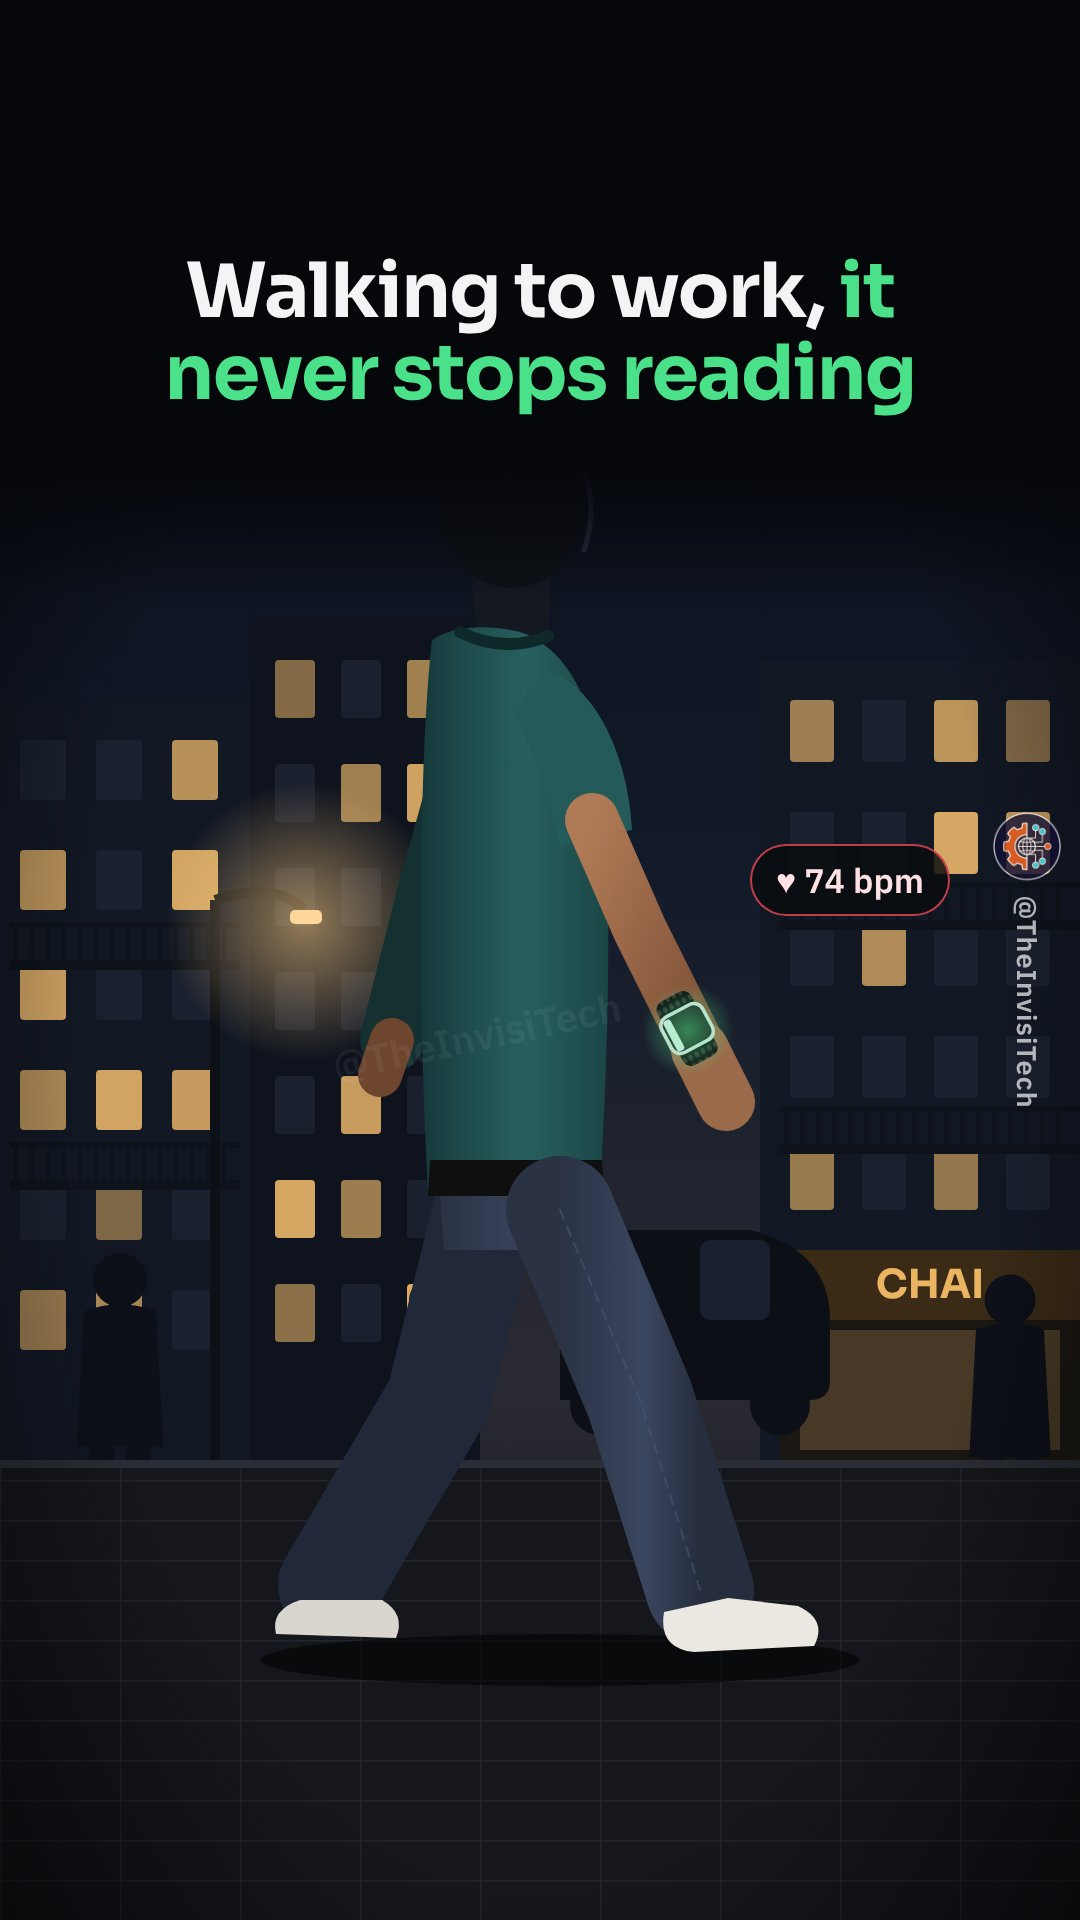
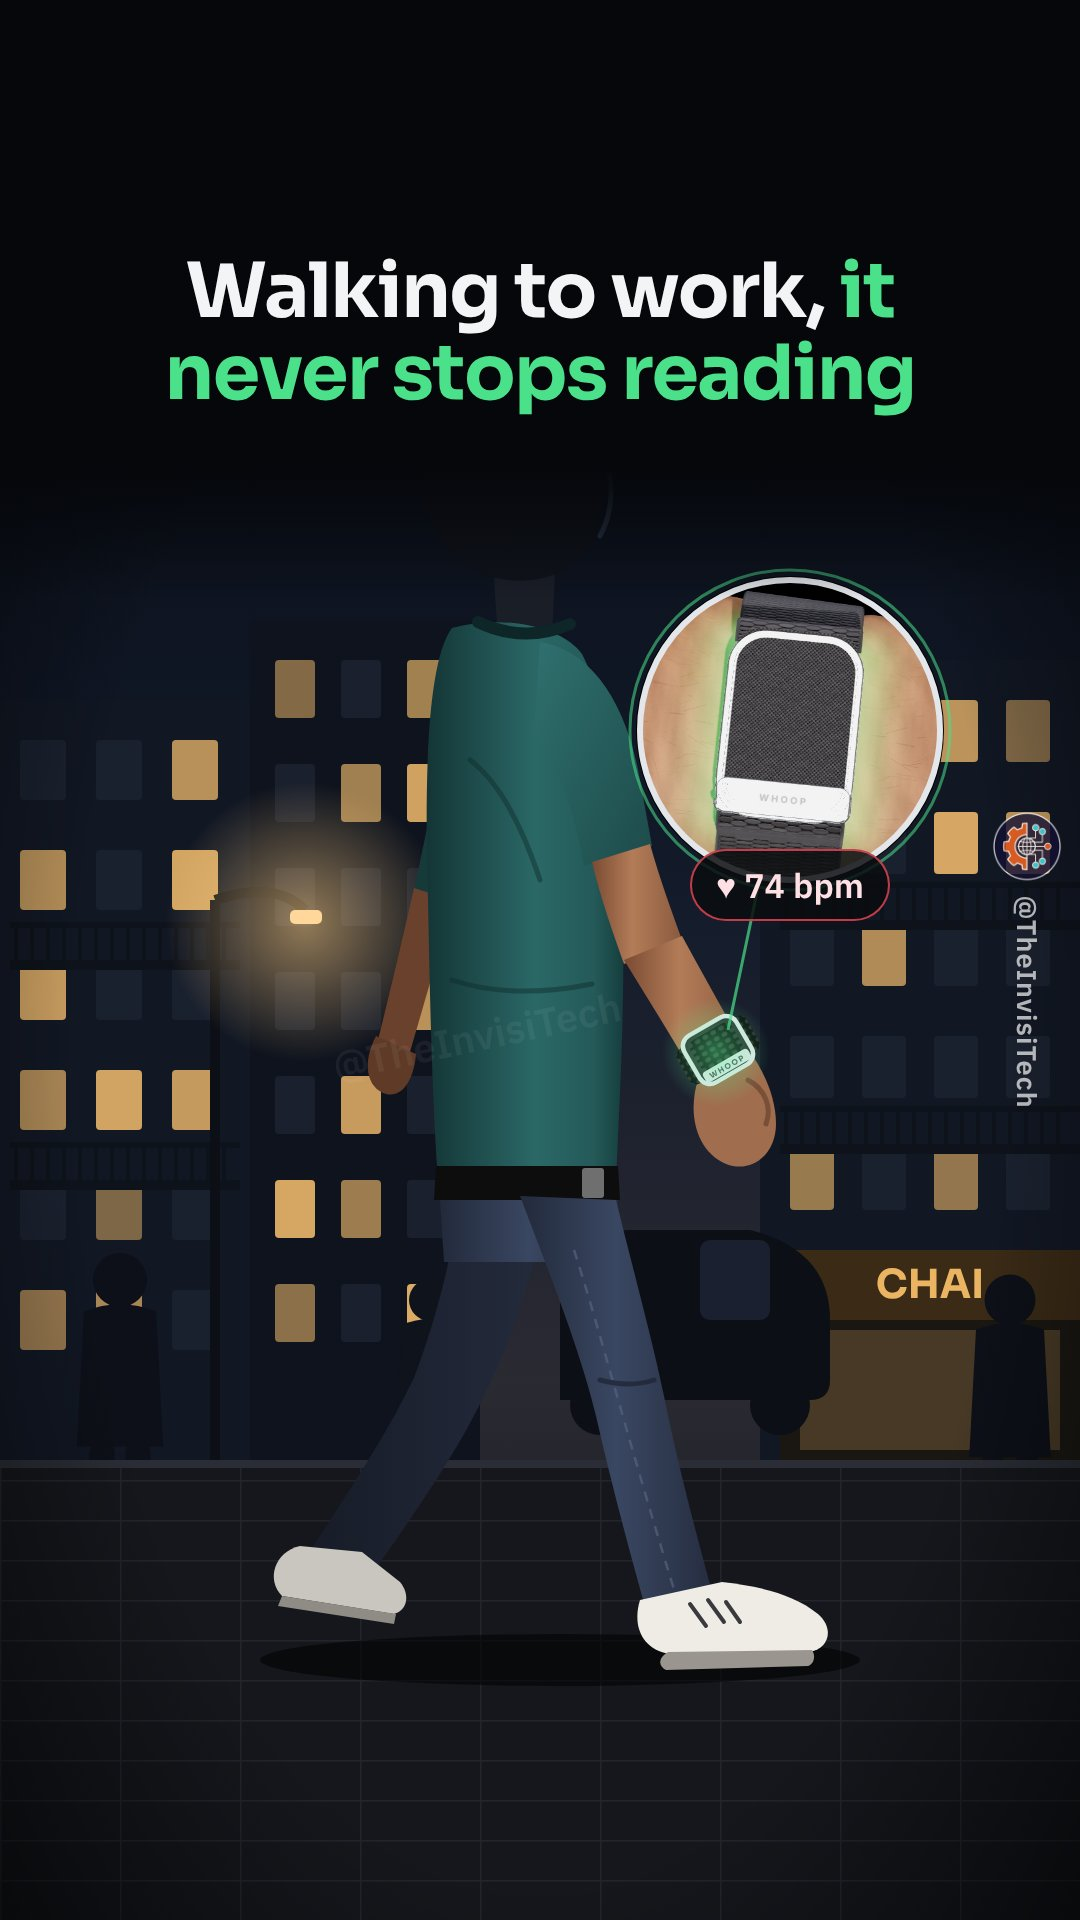
WHOOP Short: redrawn walking man with a WHOOP band on his wrist + 3D zoom bubble
Claude-Session: https://claude.ai/code/session_01GXcKc5WnFrVWBsHLe8YpAy

diff --git a/whoop-teardown/shots.html b/whoop-teardown/shots.html
@@ -1073,7 +1073,7 @@ const macroCam = new THREE.PerspectiveCamera(30, W / H, 1, 2000);
 }
 
 /* ---------- 2D illustration: walking to work (our own character, faceless) ---------- */
-function walkSVG() {
+function walkSVG(zoom) {
   const r = rng(5);
   const windows = (x0, y0, cols, rows, dx, dy, w, h) => { let o = ''; for (let jj = 0; jj < rows; jj++) for (let ii = 0; ii < cols; ii++) { const lit = r() < .5; o += `<rect x="${x0 + ii * dx}" y="${y0 + jj * dy}" width="${w}" height="${h}" rx="4" fill="${lit ? '#e8b46a' : '#1c2230'}" opacity="${lit ? .5 + r() * .45 : .9}"/>`; } return o; };
   const balcony = (x, y, w) => `<rect x="${x}" y="${y}" width="${w}" height="10" fill="#0e121a"/>` + [...Array(Math.floor(w / 16))].map((_, k) => `<rect x="${x + 4 + k * 16}" y="${y - 34}" width="4" height="34" fill="#0e121a"/>`).join('') + `<rect x="${x}" y="${y - 38}" width="${w}" height="6" fill="#0e121a"/>`;
@@ -1109,27 +1109,63 @@ function walkSVG() {
   <!-- footpath -->
   <rect x="0" y="1460" width="${W}" height="460" fill="url(#tiles)"/><rect x="0" y="1460" width="${W}" height="8" fill="#2a2d35"/>
   <ellipse cx="560" cy="1660" rx="300" ry="26" fill="#000" opacity=".55"/>
-  <!-- character walking right (faceless: head stays out of frame) -->
-  <g stroke-linecap="round" stroke-linejoin="round">
-    <path d="M478 720 L430 890 L392 1040" stroke="#143031" stroke-width="64" fill="none"/>
-    <path d="M392 1040 L380 1075" stroke="#6e452f" stroke-width="44" fill="none"/>
-    <path d="M490 1190 L438 1400 L330 1585" stroke="#20283a" stroke-width="104" fill="none"/>
-    <path d="M300 1600 q-30 10 -24 34 l120 4 q10 -24 -14 -38 z" fill="#d9d6cf"/>
-    <path d="M470 560 L478 650 L548 650 L552 560 Z" fill="#141820"/>
-    <ellipse cx="512" cy="500" rx="74" ry="88" fill="#0f1218"/><path d="M584 470 q14 40 0 80" stroke="#3a4558" stroke-width="5" fill="none" opacity=".6"/>
-    <path d="M432 640 C 418 760 418 1020 428 1190 L 600 1190 C 610 1020 612 860 600 760 C 590 690 560 645 520 632 C 488 624 452 626 432 640 Z" fill="url(#teeG)"/>
-    <path d="M460 632 q44 22 88 4" stroke="#0f2829" stroke-width="12" fill="none"/>
-    <path d="M430 1160 L 602 1160 L 604 1196 L 428 1196 Z" fill="#0f0f10"/><rect x="560" y="1162" width="22" height="30" rx="3" fill="#5e5e5e"/>
-    <path d="M440 1196 L 600 1196 L 596 1250 L 444 1250 Z" fill="url(#denimG)"/>
-    <path d="M560 1210 L640 1400 L700 1590" stroke="url(#denimG)" stroke-width="108" fill="none"/>
-    <path d="M560 1210 L640 1400 L700 1590" stroke="#4a5674" stroke-width="2" stroke-dasharray="10 8" fill="none" opacity=".6"/>
-    <path d="M664 1612 q-6 36 30 40 l120 -6 q14 -26 -16 -40 l-70 -8 z" fill="#ebe8e1"/>
-    <path d="M548 670 C 600 690 628 760 632 830 L 560 846 C 548 790 530 740 512 710 Z" fill="#245a59"/>
-    <path d="M592 820 L640 930 L700 1050" stroke="url(#skinG)" stroke-width="54" fill="none"/>
-    <path d="M700 1050 L726 1102" stroke="#9a6a4b" stroke-width="58" fill="none"/>
-    <g transform="rotate(62 688 1028)"><rect x="652" y="1010" width="72" height="38" rx="9" fill="url(#knit)"/><rect x="668" y="1006" width="40" height="46" rx="10" fill="#18191c" stroke="#d6dade" stroke-width="3.5"/><rect x="671" y="1040" width="34" height="8" rx="3" fill="#dfe3e8"/></g>
-    <circle cx="688" cy="1030" r="46" fill="url(#ledg)" opacity=".5"/>
+  <!-- character walking right: faceless (head in shadow), Indian skin tone, WHOOP band on the near wrist -->
+  <defs>
+    <linearGradient id="tee2" x1="0" y1="0" x2="1" y2="0"><stop offset="0" stop-color="#143536"/><stop offset=".55" stop-color="#2a6866"/><stop offset=".85" stop-color="#245a59"/><stop offset="1" stop-color="#163e3e"/></linearGradient>
+    <linearGradient id="sleeve2" x1="0" y1="0" x2="1" y2="1"><stop offset="0" stop-color="#2f706e"/><stop offset="1" stop-color="#1d4b4a"/></linearGradient>
+    <linearGradient id="arm2" x1="0" y1="0" x2="1" y2="0"><stop offset="0" stop-color="#7a4b33"/><stop offset=".45" stop-color="#b37c58"/><stop offset="1" stop-color="#8a5a3e"/></linearGradient>
+    <linearGradient id="jean2" x1="0" y1="0" x2="1" y2="0"><stop offset="0" stop-color="#222a3b"/><stop offset=".5" stop-color="#3a4762"/><stop offset="1" stop-color="#252d40"/></linearGradient>
+    <linearGradient id="jeanFar" x1="0" y1="0" x2="1" y2="0"><stop offset="0" stop-color="#171c28"/><stop offset="1" stop-color="#242b3c"/></linearGradient>
+  </defs>
+  <g stroke-linejoin="round">
+    <!-- far arm (behind the body, swinging back) -->
+    <path d="M470 662 C 446 740 428 820 414 892 L 452 904 C 466 836 486 760 504 690 Z" fill="#163a3a"/>
+    <path d="M414 888 C 400 950 388 1000 378 1040 L 410 1052 C 422 1010 438 958 452 900 Z" fill="#6a412c"/>
+    <path d="M376 1036 c -14 26 -10 52 10 58 c 16 4 28 -14 30 -40 z" fill="#5e3a27"/>
+    <!-- far leg (back) -->
+    <path d="M462 1186 L 548 1190 C 536 1270 512 1340 480 1404 C 452 1460 410 1520 372 1574 L 312 1548 C 350 1490 388 1432 414 1378 C 436 1320 452 1258 462 1186 Z" fill="url(#jeanFar)"/>
+    <path d="M300 1546 c -26 6 -34 34 -18 50 l 112 18 c 14 -4 16 -20 6 -32 l -38 -30 z" fill="#c9c6bf"/><path d="M282 1596 l 114 18 l -2 10 l -116 -18 z" fill="#8f8c86"/>
+    <!-- head in shadow (no face) and neck -->
+    <path d="M492 548 L 498 640 L 552 640 L 556 548 Z" fill="#1a1e27"/>
+    <path d="M520 382 c -58 0 -96 40 -98 96 c -2 50 28 90 74 100 c 36 8 72 -2 92 -30 c 14 -20 18 -48 14 -74 c -8 -58 -38 -92 -82 -92 z" fill="#10131a"/>
+    <path d="M436 452 c 8 -52 46 -80 90 -80 c 48 0 80 30 88 72 c -30 -24 -60 -32 -96 -30 c -34 2 -60 14 -82 38 z" fill="#07080b"/>
+    <path d="M604 452 c 10 28 10 58 -4 84" stroke="#3a4a5e" stroke-width="5" fill="none" opacity=".7" stroke-linecap="round"/>
+    <!-- torso: t-shirt -->
+    <path d="M452 628 C 428 660 424 770 428 900 C 430 1000 432 1100 438 1180 L 616 1180 C 620 1090 626 990 622 890 C 618 790 606 700 582 654 C 562 626 500 614 452 628 Z" fill="url(#tee2)"/>
+    <path d="M478 622 q 46 22 92 2" stroke="#0e2627" stroke-width="12" fill="none" stroke-linecap="round"/>
+    <path d="M470 760 q 40 30 70 120 M 452 980 q 60 20 140 4 M 560 700 q 30 60 30 140" stroke="#0f2a2b" stroke-width="5" fill="none" opacity=".45" stroke-linecap="round"/>
+    <!-- belt + hips -->
+    <path d="M436 1166 L 618 1166 L 620 1200 L 434 1200 Z" fill="#0d0d0e"/><rect x="582" y="1168" width="22" height="30" rx="3" fill="#6f6f6f"/>
+    <path d="M440 1200 L 618 1200 L 614 1262 L 444 1262 Z" fill="url(#jean2)"/>
+    <!-- near leg (forward) -->
+    <path d="M520 1196 L 616 1200 C 632 1266 650 1330 664 1396 C 676 1456 694 1526 712 1592 L 646 1610 C 628 1546 610 1478 596 1416 C 580 1350 552 1280 520 1196 Z" fill="url(#jean2)"/>
+    <path d="M574 1250 C 600 1330 622 1420 676 1596" stroke="#55627f" stroke-width="2.5" stroke-dasharray="10 8" fill="none" opacity=".7"/>
+    <path d="M600 1380 q 30 8 54 0" stroke="#1c2232" stroke-width="5" fill="none" opacity=".7" stroke-linecap="round"/>
+    <path d="M640 1600 c -8 26 2 50 30 54 l 140 -2 c 20 -4 24 -24 8 -38 c -24 -20 -60 -28 -96 -32 z" fill="#efece6"/>
+    <path d="M668 1652 l 144 -2 c 4 6 2 14 -4 16 l -142 4 c -8 -4 -8 -12 2 -18 z" fill="#9a968f"/>
+    <path d="M690 1604 l 16 22 M 708 1600 l 16 22 M 726 1602 l 14 20" stroke="#3a3a3e" stroke-width="4" stroke-linecap="round"/>
+    <!-- near arm: sleeve, upper arm, forearm swinging forward -->
+    <path d="M540 642 C 590 650 626 700 640 780 L 652 846 L 584 866 C 576 820 562 770 534 734 Z" fill="url(#sleeve2)"/>
+    <path d="M592 862 L 650 844 C 660 880 672 912 682 940 L 624 964 C 612 930 600 896 592 862 Z" fill="url(#arm2)"/>
+    <path d="M624 960 L 682 936 C 704 976 726 1016 748 1054 L 698 1082 C 676 1044 650 1002 624 960 Z" fill="url(#arm2)"/>
+    <path d="M698 1080 C 688 1110 694 1150 726 1164 C 752 1174 776 1154 776 1124 C 776 1100 766 1074 750 1052 Z" fill="#a06e4e"/>
+    <path d="M748 1080 c 18 10 24 28 18 44" stroke="#7a4f37" stroke-width="5" fill="none" stroke-linecap="round"/>
+    <!-- WHOOP band on the wrist: knit strap, chrome frame, clasp plate (face toward the viewer) -->
+    <g transform="translate(718 1050) rotate(-30)">
+      <rect x="-40" y="-20" width="80" height="40" rx="8" fill="url(#knit)"/>
+      <rect x="-30" y="-27" width="60" height="54" rx="12" fill="#2b2c30" stroke="#e3e6ea" stroke-width="4.5"/>
+      <rect x="-24" y="-21" width="48" height="34" rx="8" fill="url(#knit)"/>
+      <rect x="-26" y="12" width="52" height="12" rx="4" fill="#dfe3e8"/>
+      <text x="0" y="21.5" text-anchor="middle" font-family="Sora" font-weight="700" font-size="7.5" letter-spacing="1.6" fill="#4a4f57">WHOOP</text>
+    </g>
+    <circle cx="716" cy="1052" r="54" fill="url(#ledg)" opacity=".45"/>
   </g>
+  <!-- zoom bubble: the real 3D band from our model -->
+  ${zoom ? `<defs><clipPath id="zc"><circle cx="790" cy="730" r="148"/></clipPath></defs>
+  <line x1="728" y1="1030" x2="760" y2="878" stroke="rgba(75,224,138,.7)" stroke-width="3"/>
+  <circle cx="790" cy="730" r="154" fill="#000"/>
+  <image href="${zoom}" x="${790 - 540 * 0.62}" y="${730 - 960 * 0.62}" width="${1080 * 0.62}" height="${1920 * 0.62}" clip-path="url(#zc)"/>
+  <circle cx="790" cy="730" r="150" fill="none" stroke="#e3e6ea" stroke-width="6"/><circle cx="790" cy="730" r="160" fill="none" stroke="rgba(75,224,138,.55)" stroke-width="3"/>` : ''}
   <rect width="${W}" height="${H}" fill="url(#vig)"/>
   <rect x="0" y="0" width="${W}" height="600" fill="url(#topfade)"/>
   </svg>`;
@@ -1165,9 +1201,10 @@ const SHOTS = [
     $('sTitle').innerHTML = 'Like a stethoscope, it listens <em class="r">to your heart</em>';
     pills([{ text: 'Listens with sound', cls: 'r', at: [270, 1250], to: V3(-32, -3, -4) }, { text: 'Listens with light', cls: 'g', at: [770, 1250], to: V3(24, -2, 0) }]); },
   // 3. walking to work (2D illustration)
-  () => { T.renderer.domElement.style.opacity = 0; $('sArt').innerHTML = walkSVG(); $('sIllus').style.display = 'none';
+  () => { pod(0, 0); cam(V3(8, 430, 80), V3(0, 3, 0), null, 0); draw3D(); const zoom = T.renderer.domElement.toDataURL('image/jpeg', 0.92);
+    T.renderer.domElement.style.opacity = 0; $('sArt').innerHTML = walkSVG(zoom); $('sIllus').style.display = 'none';
     $('sTitle').innerHTML = 'Walking to work, <em class="g">it never stops reading</em>';
-    pills([{ text: '♥ 74 bpm', cls: 'r', at: [850, 880], to: [692, 1022] }]); },
+    pills([{ text: '♥ 74 bpm', cls: 'r', at: [790, 885] }]); },
   // 4. on the wrist, from above: no screen at all
   () => { pod(0, 0); cam(V3(6, 215, 40), V3(0, 2, 0), null, -40); draw3D();
     $('sTitle').innerHTML = 'No screen. It just <em class="g">keeps reading</em>';

diff --git a/whoop-teardown/shots.src.js b/whoop-teardown/shots.src.js
@@ -109,7 +109,7 @@ const macroCam = new THREE.PerspectiveCamera(30, W / H, 1, 2000);
 }
 
 /* ---------- 2D illustration: walking to work (our own character, faceless) ---------- */
-function walkSVG() {
+function walkSVG(zoom) {
   const r = rng(5);
   const windows = (x0, y0, cols, rows, dx, dy, w, h) => { let o = ''; for (let jj = 0; jj < rows; jj++) for (let ii = 0; ii < cols; ii++) { const lit = r() < .5; o += `<rect x="${x0 + ii * dx}" y="${y0 + jj * dy}" width="${w}" height="${h}" rx="4" fill="${lit ? '#e8b46a' : '#1c2230'}" opacity="${lit ? .5 + r() * .45 : .9}"/>`; } return o; };
   const balcony = (x, y, w) => `<rect x="${x}" y="${y}" width="${w}" height="10" fill="#0e121a"/>` + [...Array(Math.floor(w / 16))].map((_, k) => `<rect x="${x + 4 + k * 16}" y="${y - 34}" width="4" height="34" fill="#0e121a"/>`).join('') + `<rect x="${x}" y="${y - 38}" width="${w}" height="6" fill="#0e121a"/>`;
@@ -145,27 +145,63 @@ function walkSVG() {
   <!-- footpath -->
   <rect x="0" y="1460" width="${W}" height="460" fill="url(#tiles)"/><rect x="0" y="1460" width="${W}" height="8" fill="#2a2d35"/>
   <ellipse cx="560" cy="1660" rx="300" ry="26" fill="#000" opacity=".55"/>
-  <!-- character walking right (faceless: head stays out of frame) -->
-  <g stroke-linecap="round" stroke-linejoin="round">
-    <path d="M478 720 L430 890 L392 1040" stroke="#143031" stroke-width="64" fill="none"/>
-    <path d="M392 1040 L380 1075" stroke="#6e452f" stroke-width="44" fill="none"/>
-    <path d="M490 1190 L438 1400 L330 1585" stroke="#20283a" stroke-width="104" fill="none"/>
-    <path d="M300 1600 q-30 10 -24 34 l120 4 q10 -24 -14 -38 z" fill="#d9d6cf"/>
-    <path d="M470 560 L478 650 L548 650 L552 560 Z" fill="#141820"/>
-    <ellipse cx="512" cy="500" rx="74" ry="88" fill="#0f1218"/><path d="M584 470 q14 40 0 80" stroke="#3a4558" stroke-width="5" fill="none" opacity=".6"/>
-    <path d="M432 640 C 418 760 418 1020 428 1190 L 600 1190 C 610 1020 612 860 600 760 C 590 690 560 645 520 632 C 488 624 452 626 432 640 Z" fill="url(#teeG)"/>
-    <path d="M460 632 q44 22 88 4" stroke="#0f2829" stroke-width="12" fill="none"/>
-    <path d="M430 1160 L 602 1160 L 604 1196 L 428 1196 Z" fill="#0f0f10"/><rect x="560" y="1162" width="22" height="30" rx="3" fill="#5e5e5e"/>
-    <path d="M440 1196 L 600 1196 L 596 1250 L 444 1250 Z" fill="url(#denimG)"/>
-    <path d="M560 1210 L640 1400 L700 1590" stroke="url(#denimG)" stroke-width="108" fill="none"/>
-    <path d="M560 1210 L640 1400 L700 1590" stroke="#4a5674" stroke-width="2" stroke-dasharray="10 8" fill="none" opacity=".6"/>
-    <path d="M664 1612 q-6 36 30 40 l120 -6 q14 -26 -16 -40 l-70 -8 z" fill="#ebe8e1"/>
-    <path d="M548 670 C 600 690 628 760 632 830 L 560 846 C 548 790 530 740 512 710 Z" fill="#245a59"/>
-    <path d="M592 820 L640 930 L700 1050" stroke="url(#skinG)" stroke-width="54" fill="none"/>
-    <path d="M700 1050 L726 1102" stroke="#9a6a4b" stroke-width="58" fill="none"/>
-    <g transform="rotate(62 688 1028)"><rect x="652" y="1010" width="72" height="38" rx="9" fill="url(#knit)"/><rect x="668" y="1006" width="40" height="46" rx="10" fill="#18191c" stroke="#d6dade" stroke-width="3.5"/><rect x="671" y="1040" width="34" height="8" rx="3" fill="#dfe3e8"/></g>
-    <circle cx="688" cy="1030" r="46" fill="url(#ledg)" opacity=".5"/>
+  <!-- character walking right: faceless (head in shadow), Indian skin tone, WHOOP band on the near wrist -->
+  <defs>
+    <linearGradient id="tee2" x1="0" y1="0" x2="1" y2="0"><stop offset="0" stop-color="#143536"/><stop offset=".55" stop-color="#2a6866"/><stop offset=".85" stop-color="#245a59"/><stop offset="1" stop-color="#163e3e"/></linearGradient>
+    <linearGradient id="sleeve2" x1="0" y1="0" x2="1" y2="1"><stop offset="0" stop-color="#2f706e"/><stop offset="1" stop-color="#1d4b4a"/></linearGradient>
+    <linearGradient id="arm2" x1="0" y1="0" x2="1" y2="0"><stop offset="0" stop-color="#7a4b33"/><stop offset=".45" stop-color="#b37c58"/><stop offset="1" stop-color="#8a5a3e"/></linearGradient>
+    <linearGradient id="jean2" x1="0" y1="0" x2="1" y2="0"><stop offset="0" stop-color="#222a3b"/><stop offset=".5" stop-color="#3a4762"/><stop offset="1" stop-color="#252d40"/></linearGradient>
+    <linearGradient id="jeanFar" x1="0" y1="0" x2="1" y2="0"><stop offset="0" stop-color="#171c28"/><stop offset="1" stop-color="#242b3c"/></linearGradient>
+  </defs>
+  <g stroke-linejoin="round">
+    <!-- far arm (behind the body, swinging back) -->
+    <path d="M470 662 C 446 740 428 820 414 892 L 452 904 C 466 836 486 760 504 690 Z" fill="#163a3a"/>
+    <path d="M414 888 C 400 950 388 1000 378 1040 L 410 1052 C 422 1010 438 958 452 900 Z" fill="#6a412c"/>
+    <path d="M376 1036 c -14 26 -10 52 10 58 c 16 4 28 -14 30 -40 z" fill="#5e3a27"/>
+    <!-- far leg (back) -->
+    <path d="M462 1186 L 548 1190 C 536 1270 512 1340 480 1404 C 452 1460 410 1520 372 1574 L 312 1548 C 350 1490 388 1432 414 1378 C 436 1320 452 1258 462 1186 Z" fill="url(#jeanFar)"/>
+    <path d="M300 1546 c -26 6 -34 34 -18 50 l 112 18 c 14 -4 16 -20 6 -32 l -38 -30 z" fill="#c9c6bf"/><path d="M282 1596 l 114 18 l -2 10 l -116 -18 z" fill="#8f8c86"/>
+    <!-- head in shadow (no face) and neck -->
+    <path d="M492 548 L 498 640 L 552 640 L 556 548 Z" fill="#1a1e27"/>
+    <path d="M520 382 c -58 0 -96 40 -98 96 c -2 50 28 90 74 100 c 36 8 72 -2 92 -30 c 14 -20 18 -48 14 -74 c -8 -58 -38 -92 -82 -92 z" fill="#10131a"/>
+    <path d="M436 452 c 8 -52 46 -80 90 -80 c 48 0 80 30 88 72 c -30 -24 -60 -32 -96 -30 c -34 2 -60 14 -82 38 z" fill="#07080b"/>
+    <path d="M604 452 c 10 28 10 58 -4 84" stroke="#3a4a5e" stroke-width="5" fill="none" opacity=".7" stroke-linecap="round"/>
+    <!-- torso: t-shirt -->
+    <path d="M452 628 C 428 660 424 770 428 900 C 430 1000 432 1100 438 1180 L 616 1180 C 620 1090 626 990 622 890 C 618 790 606 700 582 654 C 562 626 500 614 452 628 Z" fill="url(#tee2)"/>
+    <path d="M478 622 q 46 22 92 2" stroke="#0e2627" stroke-width="12" fill="none" stroke-linecap="round"/>
+    <path d="M470 760 q 40 30 70 120 M 452 980 q 60 20 140 4 M 560 700 q 30 60 30 140" stroke="#0f2a2b" stroke-width="5" fill="none" opacity=".45" stroke-linecap="round"/>
+    <!-- belt + hips -->
+    <path d="M436 1166 L 618 1166 L 620 1200 L 434 1200 Z" fill="#0d0d0e"/><rect x="582" y="1168" width="22" height="30" rx="3" fill="#6f6f6f"/>
+    <path d="M440 1200 L 618 1200 L 614 1262 L 444 1262 Z" fill="url(#jean2)"/>
+    <!-- near leg (forward) -->
+    <path d="M520 1196 L 616 1200 C 632 1266 650 1330 664 1396 C 676 1456 694 1526 712 1592 L 646 1610 C 628 1546 610 1478 596 1416 C 580 1350 552 1280 520 1196 Z" fill="url(#jean2)"/>
+    <path d="M574 1250 C 600 1330 622 1420 676 1596" stroke="#55627f" stroke-width="2.5" stroke-dasharray="10 8" fill="none" opacity=".7"/>
+    <path d="M600 1380 q 30 8 54 0" stroke="#1c2232" stroke-width="5" fill="none" opacity=".7" stroke-linecap="round"/>
+    <path d="M640 1600 c -8 26 2 50 30 54 l 140 -2 c 20 -4 24 -24 8 -38 c -24 -20 -60 -28 -96 -32 z" fill="#efece6"/>
+    <path d="M668 1652 l 144 -2 c 4 6 2 14 -4 16 l -142 4 c -8 -4 -8 -12 2 -18 z" fill="#9a968f"/>
+    <path d="M690 1604 l 16 22 M 708 1600 l 16 22 M 726 1602 l 14 20" stroke="#3a3a3e" stroke-width="4" stroke-linecap="round"/>
+    <!-- near arm: sleeve, upper arm, forearm swinging forward -->
+    <path d="M540 642 C 590 650 626 700 640 780 L 652 846 L 584 866 C 576 820 562 770 534 734 Z" fill="url(#sleeve2)"/>
+    <path d="M592 862 L 650 844 C 660 880 672 912 682 940 L 624 964 C 612 930 600 896 592 862 Z" fill="url(#arm2)"/>
+    <path d="M624 960 L 682 936 C 704 976 726 1016 748 1054 L 698 1082 C 676 1044 650 1002 624 960 Z" fill="url(#arm2)"/>
+    <path d="M698 1080 C 688 1110 694 1150 726 1164 C 752 1174 776 1154 776 1124 C 776 1100 766 1074 750 1052 Z" fill="#a06e4e"/>
+    <path d="M748 1080 c 18 10 24 28 18 44" stroke="#7a4f37" stroke-width="5" fill="none" stroke-linecap="round"/>
+    <!-- WHOOP band on the wrist: knit strap, chrome frame, clasp plate (face toward the viewer) -->
+    <g transform="translate(718 1050) rotate(-30)">
+      <rect x="-40" y="-20" width="80" height="40" rx="8" fill="url(#knit)"/>
+      <rect x="-30" y="-27" width="60" height="54" rx="12" fill="#2b2c30" stroke="#e3e6ea" stroke-width="4.5"/>
+      <rect x="-24" y="-21" width="48" height="34" rx="8" fill="url(#knit)"/>
+      <rect x="-26" y="12" width="52" height="12" rx="4" fill="#dfe3e8"/>
+      <text x="0" y="21.5" text-anchor="middle" font-family="Sora" font-weight="700" font-size="7.5" letter-spacing="1.6" fill="#4a4f57">WHOOP</text>
+    </g>
+    <circle cx="716" cy="1052" r="54" fill="url(#ledg)" opacity=".45"/>
   </g>
+  <!-- zoom bubble: the real 3D band from our model -->
+  ${zoom ? `<defs><clipPath id="zc"><circle cx="790" cy="730" r="148"/></clipPath></defs>
+  <line x1="728" y1="1030" x2="760" y2="878" stroke="rgba(75,224,138,.7)" stroke-width="3"/>
+  <circle cx="790" cy="730" r="154" fill="#000"/>
+  <image href="${zoom}" x="${790 - 540 * 0.62}" y="${730 - 960 * 0.62}" width="${1080 * 0.62}" height="${1920 * 0.62}" clip-path="url(#zc)"/>
+  <circle cx="790" cy="730" r="150" fill="none" stroke="#e3e6ea" stroke-width="6"/><circle cx="790" cy="730" r="160" fill="none" stroke="rgba(75,224,138,.55)" stroke-width="3"/>` : ''}
   <rect width="${W}" height="${H}" fill="url(#vig)"/>
   <rect x="0" y="0" width="${W}" height="600" fill="url(#topfade)"/>
   </svg>`;
@@ -201,9 +237,10 @@ const SHOTS = [
     $('sTitle').innerHTML = 'Like a stethoscope, it listens <em class="r">to your heart</em>';
     pills([{ text: 'Listens with sound', cls: 'r', at: [270, 1250], to: V3(-32, -3, -4) }, { text: 'Listens with light', cls: 'g', at: [770, 1250], to: V3(24, -2, 0) }]); },
   // 3. walking to work (2D illustration)
-  () => { T.renderer.domElement.style.opacity = 0; $('sArt').innerHTML = walkSVG(); $('sIllus').style.display = 'none';
+  () => { pod(0, 0); cam(V3(8, 430, 80), V3(0, 3, 0), null, 0); draw3D(); const zoom = T.renderer.domElement.toDataURL('image/jpeg', 0.92);
+    T.renderer.domElement.style.opacity = 0; $('sArt').innerHTML = walkSVG(zoom); $('sIllus').style.display = 'none';
     $('sTitle').innerHTML = 'Walking to work, <em class="g">it never stops reading</em>';
-    pills([{ text: '♥ 74 bpm', cls: 'r', at: [850, 880], to: [692, 1022] }]); },
+    pills([{ text: '♥ 74 bpm', cls: 'r', at: [790, 885] }]); },
   // 4. on the wrist, from above: no screen at all
   () => { pod(0, 0); cam(V3(6, 215, 40), V3(0, 2, 0), null, -40); draw3D();
     $('sTitle').innerHTML = 'No screen. It just <em class="g">keeps reading</em>';
